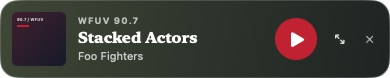
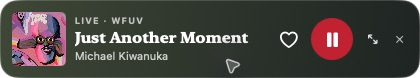
Add favorite heart to mini player

diff --git a/Sources/FUVListenerMac/PlayerPanel.swift b/Sources/FUVListenerMac/PlayerPanel.swift
@@ -160,8 +160,15 @@ struct CollapsedPlayerPanel: View {
         return current
     }
 
+    private var isCurrentFavorite: Bool {
+        guard let track else { return false }
+        return radio.favorites.contains {
+            $0.favoriteID == Song.favoriteID(title: track.title, artist: track.artist)
+        }
+    }
+
     var body: some View {
-        HStack(spacing: 12) {
+        HStack(spacing: 9) {
             Button(action: onExpand) {
                 CoverArt(data: radio.imageDataForCurrent(),
                          title: track?.title ?? "WFUV",
@@ -188,6 +195,19 @@ struct CollapsedPlayerPanel: View {
                     .lineLimit(1)
             }
             .frame(maxWidth: .infinity, alignment: .leading)
+
+            Button(action: radio.toggleCurrentFavorite) {
+                Image(systemName: isCurrentFavorite ? "heart.fill" : "heart")
+                    .font(.system(size: 18, weight: .medium))
+                    .foregroundStyle(isCurrentFavorite ? Palette.red : .white)
+                    .frame(width: 26, height: 42)
+            }
+            .buttonStyle(.plain)
+            .disabled(track == nil)
+            .opacity(track == nil ? 0.4 : 1)
+            .accessibilityLabel(isCurrentFavorite ? "Remove current song from favorites" :
+                                "Add current song to favorites")
+            .help(isCurrentFavorite ? "Remove from favorites" : "Add to favorites")
 
             Button(action: radio.togglePlayback) {
                 Image(systemName: radio.isPlaying ? "pause.fill" : "play.fill")

diff --git a/Sources/FUVListenerMac/ListenerView.swift b/Sources/FUVListenerMac/ListenerView.swift
@@ -84,7 +84,7 @@ struct ListenerView: View {
     }
 
     private func configureWindow(_ window: NSWindow, collapsed: Bool, resize: Bool) {
-        let miniSize = NSSize(width: 390, height: 78)
+        let miniSize = NSSize(width: 420, height: 78)
         // Let the window cross between both size ranges before applying the new limits.
         window.contentMinSize = miniSize
         window.contentMaxSize = NSSize(width: 720, height: 950)

diff --git a/README.md b/README.md
@@ -1,6 +1,6 @@
 # FUV Listener for Mac
 
-A small, native macOS player for [WFUV 90.7 FM](https://wfuv.org). The frameless mini player shows the current song, artwork, and play/pause in a movable card. Expand it into a playlist-focused window with separate Playlist and Favorites tabs; your selected view is remembered. Favorite songs locally or open any track in Spotify. The app stays in the Dock while it runs and also has a **WFUV menu bar control** for play/pause, song details, refresh, and reopening the player window.
+A small, native macOS player for [WFUV 90.7 FM](https://wfuv.org). The frameless mini player shows the current song, artwork, a favorite heart, and play/pause in a movable card. Expand it into a playlist-focused window with separate Playlist and Favorites tabs; your selected view is remembered. Favorite songs locally or open any track in Spotify. The app stays in the Dock while it runs and also has a **WFUV menu bar control** for play/pause, song details, refresh, and reopening the player window.
 
 This is an independent fan project made in support of WFUV, a great public radio resource. It is not affiliated with or endorsed by WFUV. [Support the station](https://wfuv.org/support).
 
@@ -8,7 +8,7 @@ This is an independent fan project made in support of WFUV, a great public radio
 
 | Playlist | Frameless mini player | Favorites |
 | :---: | :---: | :---: |
-| <img src="docs/images/player.jpg" alt="FUV Listener with live player and scrollable playlist" width="220"> | <img src="docs/images/mini-player.jpg" alt="Frameless FUV Listener card with artwork, song details, and play control" width="220"> | <img src="docs/images/favorites.jpg" alt="FUV Listener favorites with Spotify links" width="220"> |
+| <img src="docs/images/player.jpg" alt="FUV Listener with live player and scrollable playlist" width="220"> | <img src="docs/images/mini-player.jpg" alt="Frameless FUV Listener card with artwork, favorite heart, song details, and play control" width="220"> | <img src="docs/images/favorites.jpg" alt="FUV Listener favorites with Spotify links" width="220"> |
 
 [See the full player at compact window size](docs/images/compact.jpg).
 

diff --git a/docs/DESIGN_REVIEW.md b/docs/DESIGN_REVIEW.md
@@ -15,7 +15,7 @@ The goal is a small radio player that keeps the live controls in view while list
 - Live radio has no seekable track progress, so the player uses a live indicator instead of a misleading progress bar.
 - The red play/pause control is the primary action. Favorites and Spotify remain beside the song information in the expanded player.
 - The history pane uses a separate scroll view so the player never scrolls away.
-- The chevron collapses the entire window to a frameless 390 × 78 point card with artwork, song details, play/pause, expand, and close controls. Expanding restores the normal window chrome and the last selected Playlist or Favorites tab. The mode persists across launches.
+- The chevron collapses the entire window to a frameless 420 × 78 point card with artwork, song details, a favorite heart, play/pause, expand, and close controls. The heart uses the same local favorites as the wide view and is disabled when no song is identified. Expanding restores the normal window chrome and the last selected Playlist or Favorites tab. The mode persists across launches.
 - The expanded player puts play/pause beside the artwork to make room for more playlist rows. Each favorite still has a Spotify link that opens outside the app.
 - The wide window is resizable from 390–720 points wide and 500–950 points tall. Album art and motion grow in the enlarged layout.
 
